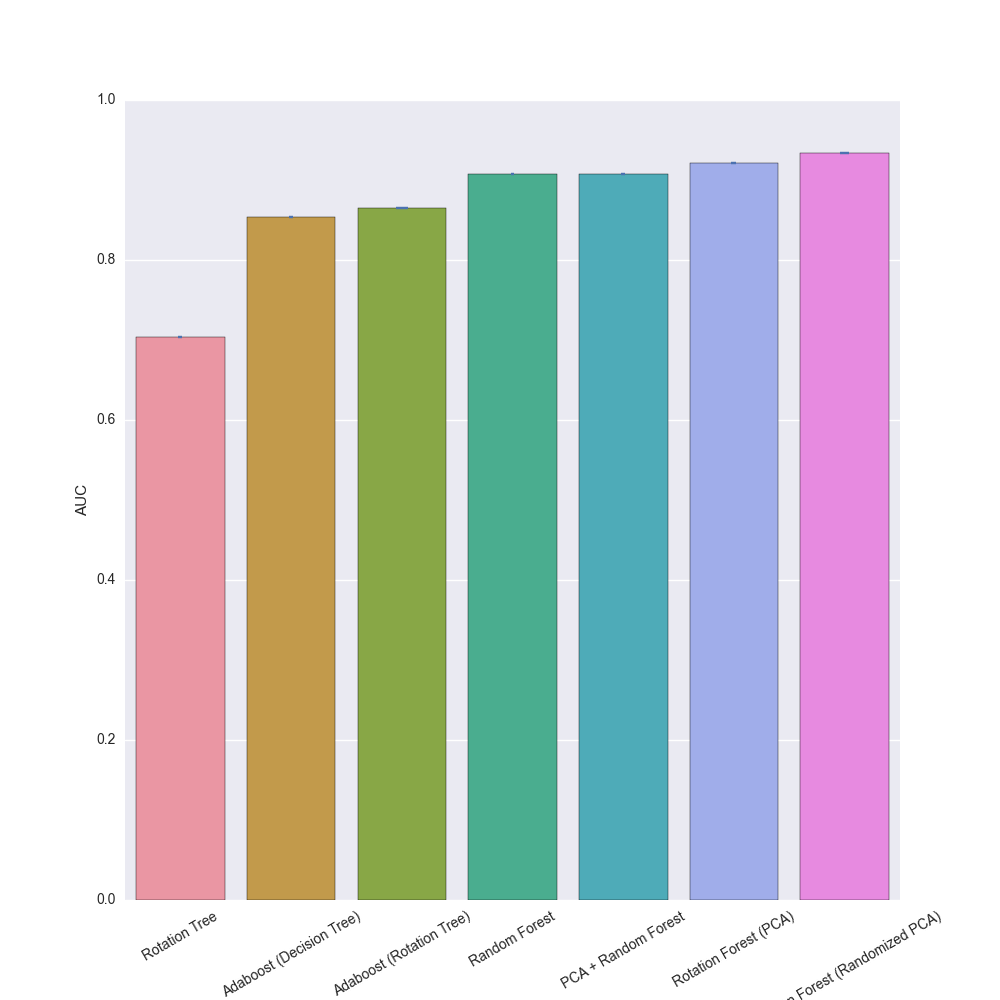
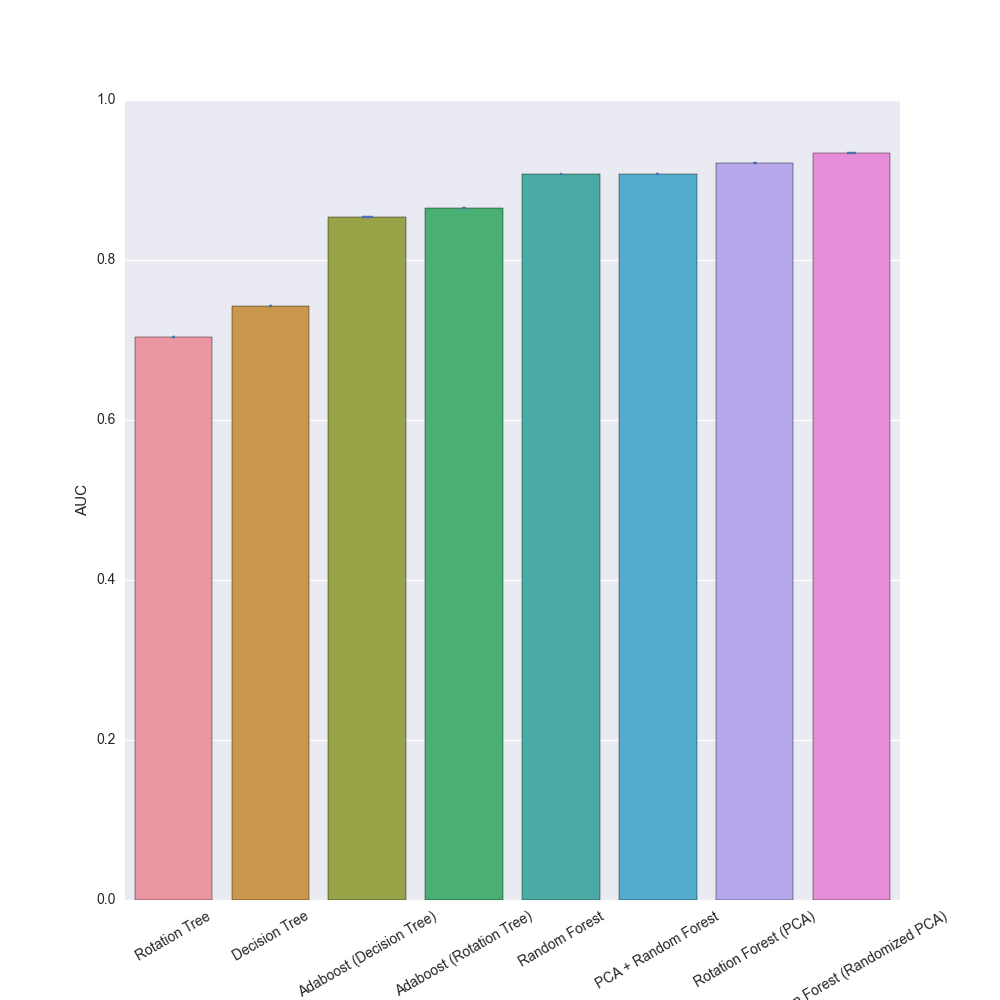
added decision tree

diff --git a/benchmarks/simple_benchmark.py b/benchmarks/simple_benchmark.py
@@ -60,6 +60,8 @@ classifiers = [('Random Forest',
               ('Rotation Tree',
                RotationTreeClassifier(random_state=12,
                                       n_features_per_subset=3)),
+              ('Decision Tree',
+               DecisionTreeClassifier(random_state=12)),
               ('Rotation Forest (PCA)',
                RotationForestClassifier(random_state=12,
                                         n_estimators=25,
